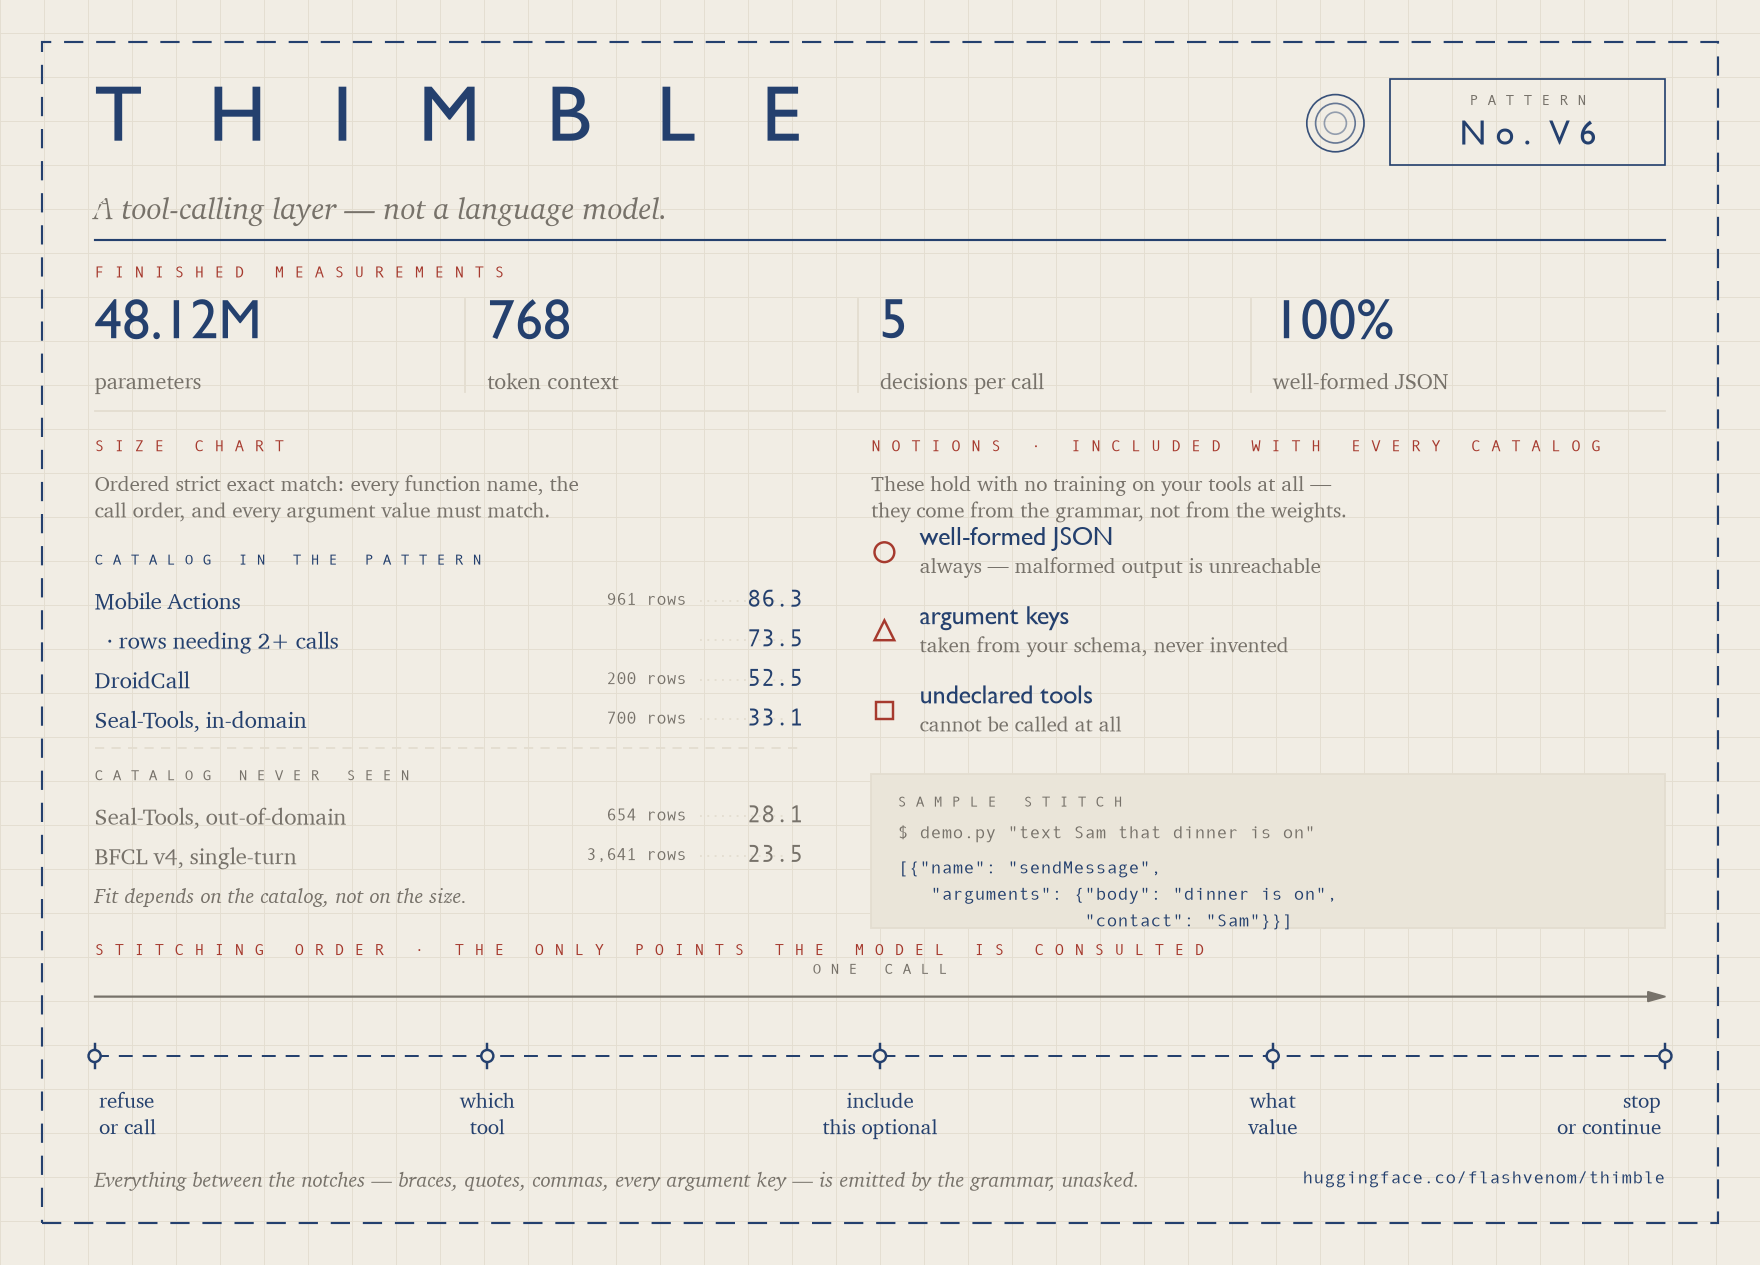
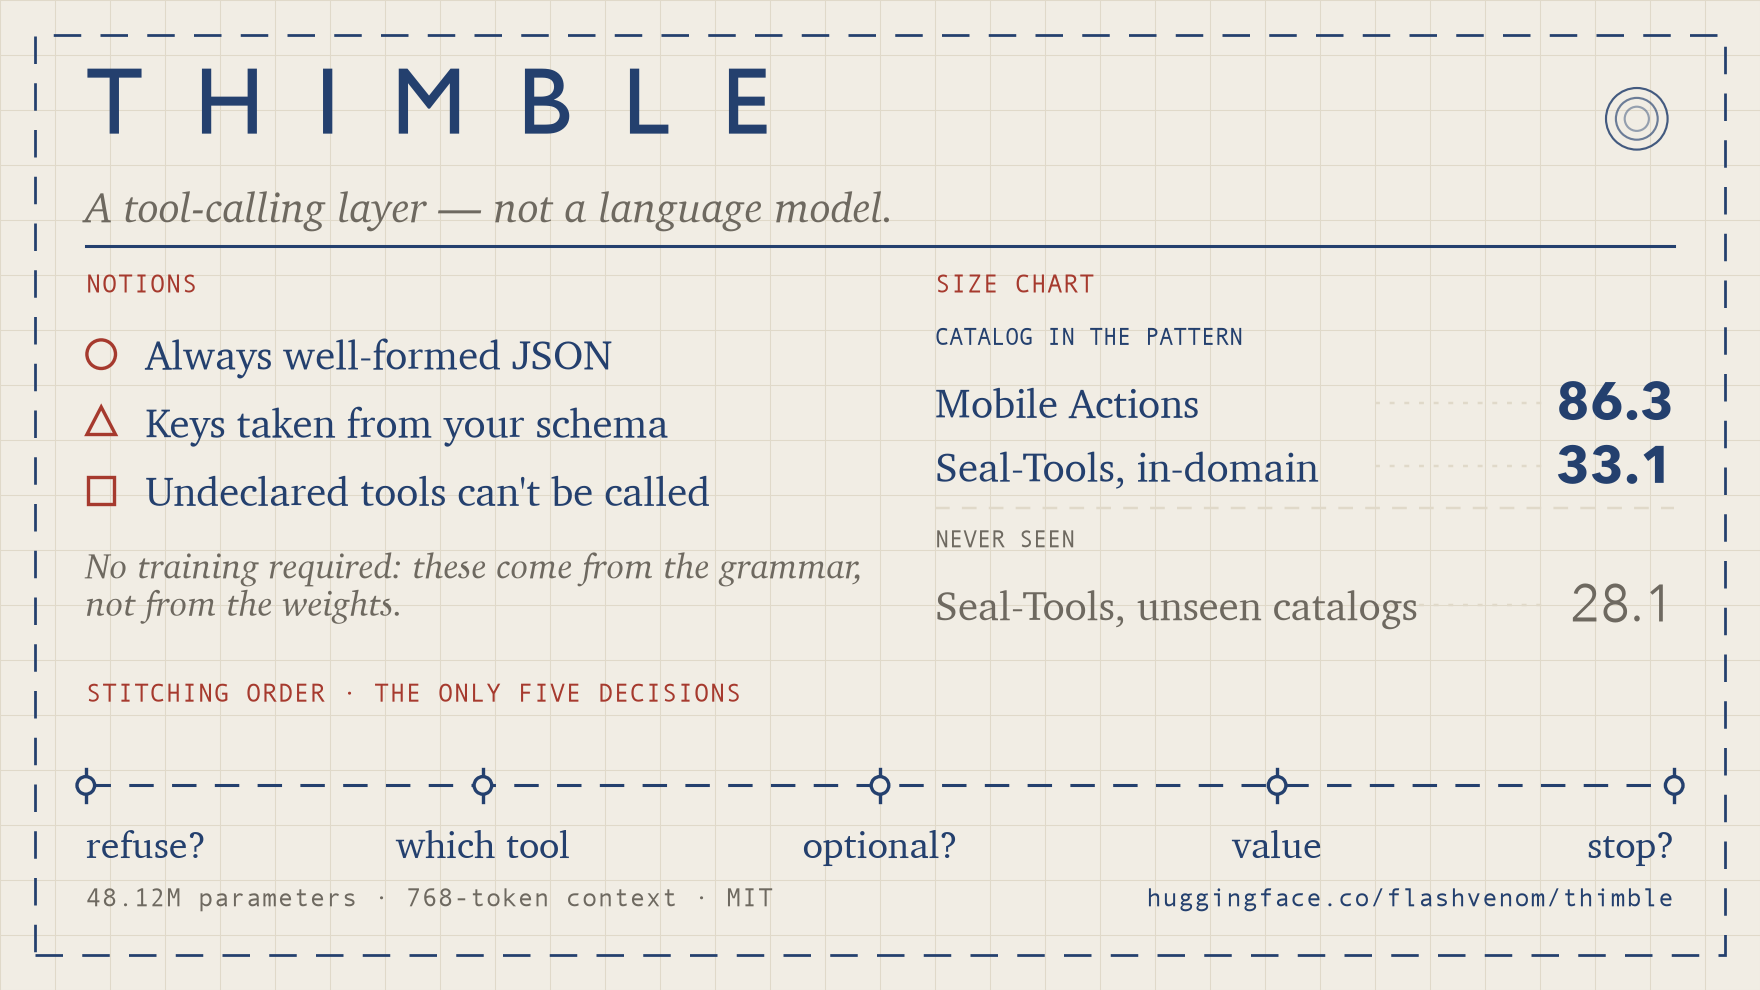
design(card): 16:9 for social, larger type, fix the figure rendering
Three problems with the pattern-sheet card, all real:

- Figures rendered wrong. Gill Sans draws "1" as a bare stroke, so 48.12M read as
  48.I2M and 100% as IOO%. Numerals now set in Avenir Next, which has a flagged
  one and a true bold; the display face is kept for the wordmark only, where the
  size makes the ambiguity moot.
- Tiny print. The card is viewed at roughly 600px wide in a feed, so body type at
  13pt was landing near 5pt on screen. Everything is roughly doubled: body 27pt,
  figures 34pt, wordmark 62pt.
- Letter-spacing. Faking tracking by inserting spaces made every label ~1.8x
  wider than estimated, which caused all four width overruns, and at feed size
  spaced-out caps read as broken text rather than as a typographic choice. Now
  used for the wordmark alone.

Reformatted 1600x1150 -> 1600x900 for X/OG summary_large_image. That ratio cannot
hold a full spec sheet at legible size, so content is cut to what survives the
feed: three notions, three benchmark rows carrying the known/unseen contrast, and
the five notches. The transcript, measurements strip and row counts are gone.

Claude-Session: https://claude.ai/code/session_011XYgHGda9Hd5n6ekwpS7fc

diff --git a/scripts/make_card.py b/scripts/make_card.py
@@ -1,12 +1,15 @@
-"""Render the Thimble spec card.
+"""Render the Thimble card, sized for social preview (1600x900, 16:9).
 
     python scripts/make_card.py
 
-Drawn as a tailor's pattern sheet, because a pattern sheet already *is* a spec
-document — finished measurements, a size chart, a notions legend, and a stitching
-order. The model's own vocabulary maps onto it without forcing: benchmarks are
-sizes, the guarantees are notions, and the five decode decisions are notches
-along a seam.
+Drawn as a tailor's pattern sheet — a pattern sheet already IS a spec document,
+so the vocabulary maps without forcing: benchmarks are a size chart, the
+guarantees are notions, the five decode decisions are notches on a seam.
+
+Sized for the feed, not the desk. An X card renders around 600px wide, so type is
+set roughly twice the size a document would use and the content is cut to what
+survives at that scale. Figures are set in Avenir Next, not the display face:
+Gill Sans draws "1" as a bare stroke, which turns 48.12M into 48.I2M.
 """
 from __future__ import annotations
 
@@ -18,188 +21,124 @@ import matplotlib.pyplot as plt
 from matplotlib.patches import Circle, FancyArrow, Polygon, Rectangle
 
 ROOT = Path(__file__).resolve().parents[1]
-W, H = 1600, 1150
+W, H = 1600, 900
 
-TISSUE, GRID = "#F1EDE4", "#E3DDD0"
-INK, MADDER, PENCIL = "#24406E", "#A63A2E", "#77726A"
+TISSUE, GRID = "#F1EDE4", "#E981D0"
+TISSUE, GRID = "#F1EDE4", "#E0D9C9"
+INK, MADDER, PENCIL = "#24406E", "#A63A2E", "#6E6960"
 
-DISPLAY = ["Gill Sans", "Gill Sans MT", "Futura", "DejaVu Sans"]
+DISPLAY = ["Gill Sans", "Futura", "DejaVu Sans"]          # wordmark only
+NUM = ["Avenir Next", "Avenir", "Helvetica Neue", "DejaVu Sans"]  # unambiguous figures
 BODY = ["Charter", "Iowan Old Style", "Georgia", "DejaVu Serif"]
 MONO = ["Andale Mono", "Menlo", "DejaVu Sans Mono"]
 
 track = lambda s, n=1: (" " * n).join(s)
 
-MEASURES = [("48.12M", "parameters"), ("768", "token context"),
-            ("5", "decisions per call"), ("100%", "well-formed JSON")]
+NOTIONS = [("circle", "Always well-formed JSON"),
+           ("triangle", "Keys taken from your schema"),
+           ("square", "Undeclared tools can't be called")]
 
-# the size chart: benchmark rows, grouped the way the model actually behaves
-SIZES = [("Mobile Actions", "961 rows", 86.3),
-         ("  · rows needing 2+ calls", "", 73.5),
-         ("DroidCall", "200 rows", 52.5),
-         ("Seal-Tools, in-domain", "700 rows", 33.1)]
-SIZES_OOD = [("Seal-Tools, out-of-domain", "654 rows", 28.1),
-             ("BFCL v4, single-turn", "3,641 rows", 23.5)]
+# three rows, not six: at feed size the known/unseen contrast is the whole story
+KNOWN = [("Mobile Actions", 86.3), ("Seal-Tools, in-domain", 33.1)]
+UNSEEN = [("Seal-Tools, unseen catalogs", 28.1)]
 
-NOTIONS = [("well-formed JSON", "always — malformed output is unreachable"),
-           ("argument keys", "taken from your schema, never invented"),
-           ("undeclared tools", "cannot be called at all")]
-
-SEAM = [("refuse", "or call"), ("which", "tool"), ("include", "this optional"),
-        ("what", "value"), ("stop", "or continue")]
+SEAM = ["refuse?", "which tool", "optional?", "value", "stop?"]
 
 
 def card() -> None:
-    fig = plt.figure(figsize=(16, 11.5), dpi=110)
+    fig = plt.figure(figsize=(16, 9), dpi=110)
     fig.patch.set_facecolor(TISSUE)
     ax = fig.add_axes((0, 0, 1, 1)); ax.set_xlim(0, W); ax.set_ylim(0, H)
     ax.axis("off")
 
-    # every y below is an explicit pixel: matplotlib's implicit text height put
-    # blocks on top of each other in the first pass, so nothing is inferred
-    def rule(y, x0, x1, color=INK, lw=1, ls="solid"):
-        ax.plot([x0, x1], [y, y], color=color, lw=lw, linestyle=ls, zorder=3)
+    L, R, MID = 78, W - 78, 850
 
-    def eyebrow(x, y, text, color=MADDER):
-        ax.text(x, y, track(text.upper()), family=MONO, fontsize=10.5,
-                color=color, va="top", zorder=4)
+    for x in range(0, W + 1, 50):
+        ax.plot([x, x], [0, H], color=GRID, lw=0.7, zorder=0)
+    for y in range(0, H + 1, 50):
+        ax.plot([0, W], [y, y], color=GRID, lw=0.7, zorder=0)
+    ax.add_patch(Rectangle((32, 32), W - 64, H - 64, fill=False, edgecolor=INK,
+                           lw=1.8, linestyle=(0, (10, 7)), zorder=2))
 
-    def lines(x, y, rows, step, **kw):
-        for i, t in enumerate(rows):
-            ax.text(x, y - i * step, t, va="top", zorder=4, **kw)
-
-    L, R, MID = 86, W - 86, 792
-
-    # --- pattern paper -----------------------------------------------------
-    for x in range(0, W + 1, 40):
-        ax.plot([x, x], [0, H], color=GRID, lw=0.6, zorder=0)
-    for y in range(0, H + 1, 40):
-        ax.plot([0, W], [y, y], color=GRID, lw=0.6, zorder=0)
-    ax.add_patch(Rectangle((38, 38), W - 76, H - 76, fill=False, edgecolor=INK,
-                           lw=1.4, linestyle=(0, (9, 6)), zorder=2))
+    def eyebrow(x, y, text, color=MADDER, ha="left"):
+        ax.text(x, y, text.upper(), family=MONO, fontsize=17,
+                color=color, va="center", ha=ha, zorder=4)
 
     # --- header ------------------------------------------------------------
-    ax.text(L, 1072, track("THIMBLE", 3), family=DISPLAY, fontsize=52,
+    ax.text(L, 838, track("THIMBLE", 2), family=DISPLAY, fontsize=62,
             color=INK, va="top", zorder=4)
-    ax.text(L, 978, "A tool-calling layer — not a language model.",
-            family=BODY, fontsize=20, color=PENCIL, va="top", style="italic", zorder=4)
-    ax.add_patch(Rectangle((R - 250, 1000), 250, 78, fill=False,
-                           edgecolor=INK, lw=1.1, zorder=3))
-    ax.text(R - 125, 1058, track("PATTERN"), family=MONO, fontsize=10,
-            color=PENCIL, ha="center", va="center", zorder=4)
-    ax.text(R - 125, 1026, track("No. V6"), family=DISPLAY, fontsize=22,
-            color=INK, ha="center", va="center", zorder=4)
-    for i, r in enumerate((26, 18, 10)):
-        ax.add_patch(Circle((R - 300, 1038), r, fill=False, edgecolor=INK,
-                            lw=1.1, zorder=3, alpha=0.9 - i * 0.22))
-    rule(932, L, R, lw=1.4)
+    for i, r in enumerate((28, 19, 11)):
+        ax.add_patch(Circle((R - 34, 792), r, fill=False, edgecolor=INK,
+                            lw=1.4, zorder=3, alpha=0.85 - i * 0.2))
+    ax.text(L, 736, "A tool-calling layer — not a language model.",
+            family=BODY, fontsize=28, color=PENCIL, va="top", style="italic",
+            zorder=4)
+    ax.plot([L, R], [676, 676], color=INK, lw=2, zorder=3)
 
-    # --- finished measurements --------------------------------------------
-
-    eyebrow(L, 908, "finished measurements")
-    cw = (R - L) / 4
-    for i, (val, lab) in enumerate(MEASURES):
-        x = L + i * cw
-        if i:
-            ax.plot([x - 20, x - 20], [794, 878], color=GRID, lw=1.2, zorder=3)
-        ax.text(x, 878, val, family=DISPLAY, fontsize=36, color=INK, va="top", zorder=4)
-        ax.text(x, 816, lab, family=BODY, fontsize=14.5, color=PENCIL, va="top", zorder=4)
-    rule(776, L, R, color=GRID, lw=1.2)
-
-    # --- left column: size chart ------------------------------------------
-    eyebrow(L, 750, "size chart")
-    lines(L, 722, ["Ordered strict exact match: every function name, the",
-                   "call order, and every argument value must match."], 24,
-          family=BODY, fontsize=13.5, color=PENCIL)
-
-    def size_row(y, name, n, val, strong):
-        ax.text(L, y, name, family=BODY, fontsize=15,
-                color=INK if strong else PENCIL, va="center", zorder=4)
-        ax.text(MID - 168, y, n, family=MONO, fontsize=11, color=PENCIL,
-                ha="right", va="center", zorder=4)
-        ax.plot([MID - 156, MID - 76], [y, y], color=GRID, lw=1.2,
-                linestyle=(0, (1, 3)), zorder=3)
-        ax.text(MID - 62, y, f"{val:.1f}", family=MONO, fontsize=16,
-                color=INK if strong else PENCIL, ha="right", va="center", zorder=4)
-
-    ax.text(L, 640, track("CATALOG IN THE PATTERN"), family=MONO, fontsize=9.5,
-            color=INK, va="center", zorder=4)
-    for i, (name, n, val) in enumerate(SIZES):
-        size_row(604 - i * 36, name, n, val, True)
-    rule(470, L, MID - 62, color=GRID, lw=1.2, ls=(0, (5, 4)))
-    ax.text(L, 444, track("CATALOG NEVER SEEN"), family=MONO, fontsize=9.5,
-            color=PENCIL, va="center", zorder=4)
-    for i, (name, n, val) in enumerate(SIZES_OOD):
-        size_row(408 - i * 36, name, n, val, False)
-    ax.text(L, 336, "Fit depends on the catalog, not on the size.",
-            family=BODY, fontsize=13.5, color=PENCIL, va="center",
-            style="italic", zorder=4)
-
-    # --- right column: notions --------------------------------------------
-    eyebrow(MID, 750, "notions · included with every catalog")
-    lines(MID, 722, ["These hold with no training on your tools at all —",
-                     "they come from the grammar, not from the weights."], 24,
-          family=BODY, fontsize=13.5, color=PENCIL)
-
-    for i, ((title, detail), mk) in enumerate(zip(NOTIONS, ("circle", "triangle", "square"))):
-        y = 648 - i * 72
-        cx = MID + 12
+    # --- left: notions -----------------------------------------------------
+    eyebrow(L, 640, "notions")
+    for i, (mk, label) in enumerate(NOTIONS):
+        y = 578 - i * 62
+        cx = L + 14
         if mk == "circle":
-            ax.add_patch(Circle((cx, y), 9, fill=False, edgecolor=MADDER, lw=1.6, zorder=4))
+            ax.add_patch(Circle((cx, y), 13, fill=False, edgecolor=MADDER, lw=2.2, zorder=4))
         elif mk == "triangle":
-            ax.add_patch(Polygon([(cx - 9, y - 8), (cx + 9, y - 8), (cx, y + 10)],
-                                 fill=False, edgecolor=MADDER, lw=1.6, zorder=4))
+            ax.add_patch(Polygon([(cx - 13, y - 11), (cx + 13, y - 11), (cx, y + 14)],
+                                 fill=False, edgecolor=MADDER, lw=2.2, zorder=4))
         else:
-            ax.add_patch(Rectangle((cx - 8, y - 8), 16, 16, fill=False,
-                                   edgecolor=MADDER, lw=1.6, zorder=4))
-        ax.text(MID + 44, y + 12, title, family=DISPLAY, fontsize=17, color=INK,
+            ax.add_patch(Rectangle((cx - 12, y - 12), 24, 24, fill=False,
+                                   edgecolor=MADDER, lw=2.2, zorder=4))
+        ax.text(L + 54, y, label, family=BODY, fontsize=27, color=INK,
                 va="center", zorder=4)
-        ax.text(MID + 44, y - 12, detail, family=BODY, fontsize=13.5,
-                color=PENCIL, va="center", zorder=4)
+    ax.text(L, 386, "No training required: these come from the grammar,",
+            family=BODY, fontsize=23, color=PENCIL, va="center", style="italic", zorder=4)
+    ax.text(L, 352, "not from the weights.",
+            family=BODY, fontsize=23, color=PENCIL, va="center", style="italic", zorder=4)
 
-    ax.add_patch(Rectangle((MID, 306), R - MID, 140, facecolor="#EAE5D9",
-                           edgecolor=GRID, lw=1.2, zorder=3))
-    ax.text(MID + 24, 420, track("SAMPLE STITCH"), family=MONO, fontsize=9.5,
+    # --- right: size chart -------------------------------------------------
+    eyebrow(MID, 640, "size chart")
+
+    def row(y, name, val, strong):
+        ax.text(MID, y, name, family=BODY, fontsize=27,
+                color=INK if strong else PENCIL, va="center", zorder=4)
+        ax.plot([MID + 400, R - 112], [y, y], color=GRID, lw=1.6,
+                linestyle=(0, (2, 4)), zorder=3)
+        ax.text(R, y, f"{val:.1f}", family=NUM, fontsize=34,
+                color=INK if strong else PENCIL, ha="right", va="center",
+                fontweight="bold" if strong else "normal", zorder=4)
+
+    ax.text(MID, 592, "CATALOG IN THE PATTERN", family=MONO, fontsize=16,
+            color=INK, va="center", zorder=4)
+    for i, (name, val) in enumerate(KNOWN):
+        row(534 - i * 58, name, val, True)
+    ax.plot([MID, R], [438, 438], color=GRID, lw=1.6, linestyle=(0, (6, 5)), zorder=3)
+    ax.text(MID, 408, "NEVER SEEN", family=MONO, fontsize=16,
             color=PENCIL, va="center", zorder=4)
-    ax.text(MID + 24, 392, '$ demo.py "text Sam that dinner is on"',
-            family=MONO, fontsize=12, color=PENCIL, va="center", zorder=4)
-    for i, ln in enumerate(['[{"name": "sendMessage",',
-                            '   "arguments": {"body": "dinner is on",',
-                            '                 "contact": "Sam"}}]']):
-        ax.text(MID + 24, 360 - i * 24, ln, family=MONO, fontsize=12,
-                color=INK, va="center", zorder=4)
+    for i, (name, val) in enumerate(UNSEEN):
+        row(350 - i * 58, name, val, False)
 
-    # --- stitching order ---------------------------------------------------
-    eyebrow(L, 292, "stitching order · the only points the model is consulted")
-    ax.add_patch(FancyArrow(L, 244, R - L, 0, width=0.6, head_width=9,
-                            head_length=16, length_includes_head=True,
-                            color=PENCIL, zorder=4))
-    ax.text((L + R) / 2, 262, track("ONE CALL"), family=MONO, fontsize=9.5,
-            color=PENCIL, ha="center", va="bottom", zorder=4)
-    sy = 190
-    rule(sy, L, R, color=INK, lw=1.3, ls=(0, (7, 5)))
+    # --- base: the five notches -------------------------------------------
+    eyebrow(L, 268, "stitching order · the only five decisions")
+    sy = 186
+    ax.plot([L, R], [sy, sy], color=INK, lw=2, linestyle=(0, (8, 6)), zorder=3)
     seg = (R - L) / (len(SEAM) - 1)
-    for i, (top, bot) in enumerate(SEAM):
+    for i, step in enumerate(SEAM):
         x = L + i * seg
-        ax.plot([x, x], [sy - 11, sy + 11], color=INK, lw=1.6, zorder=4)
-        ax.add_patch(Circle((x, sy), 5.5, facecolor=TISSUE, edgecolor=INK,
-                            lw=1.6, zorder=5))
+        ax.plot([x, x], [sy - 15, sy + 15], color=INK, lw=2.2, zorder=4)
+        ax.add_patch(Circle((x, sy), 8, facecolor=TISSUE, edgecolor=INK,
+                            lw=2.2, zorder=5))
         ha = "left" if i == 0 else ("right" if i == len(SEAM) - 1 else "center")
-        dx = 0 if ha == "center" else (-4 if ha == "right" else 4)
-        ax.text(x + dx, 162, top, family=BODY, fontsize=14, color=INK,
+        ax.text(x, sy - 32, step, family=BODY, fontsize=25, color=INK,
                 ha=ha, va="top", zorder=4)
-        ax.text(x + dx, 138, bot, family=BODY, fontsize=14, color=INK,
-                ha=ha, va="top", zorder=4)
-
-    ax.text(L, 78, "Everything between the notches — braces, quotes, commas, every argument key — is emitted by the grammar, unasked.",
-            family=BODY, fontsize=13.5, color=PENCIL, va="center",
-            style="italic", zorder=4)
-    ax.text(R, 78, "huggingface.co/flashvenom/thimble", family=MONO,
-            fontsize=11.5, color=INK, ha="right", va="center", zorder=4)
+    ax.text(L, 82, "48.12M parameters · 768-token context · MIT",
+            family=MONO, fontsize=17, color=PENCIL, va="center", zorder=4)
+    ax.text(R, 82, "huggingface.co/flashvenom/thimble", family=MONO,
+            fontsize=17, color=INK, ha="right", va="center", zorder=4)
 
     out = ROOT / "assets" / "model-card.png"
     fig.savefig(out, facecolor=TISSUE)
     plt.close(fig)
-    print(f"wrote {out.relative_to(ROOT)}")
+    print(f"wrote {out.relative_to(ROOT)}  ({W}x{H}, 16:9)")
 
 
 if __name__ == "__main__":
